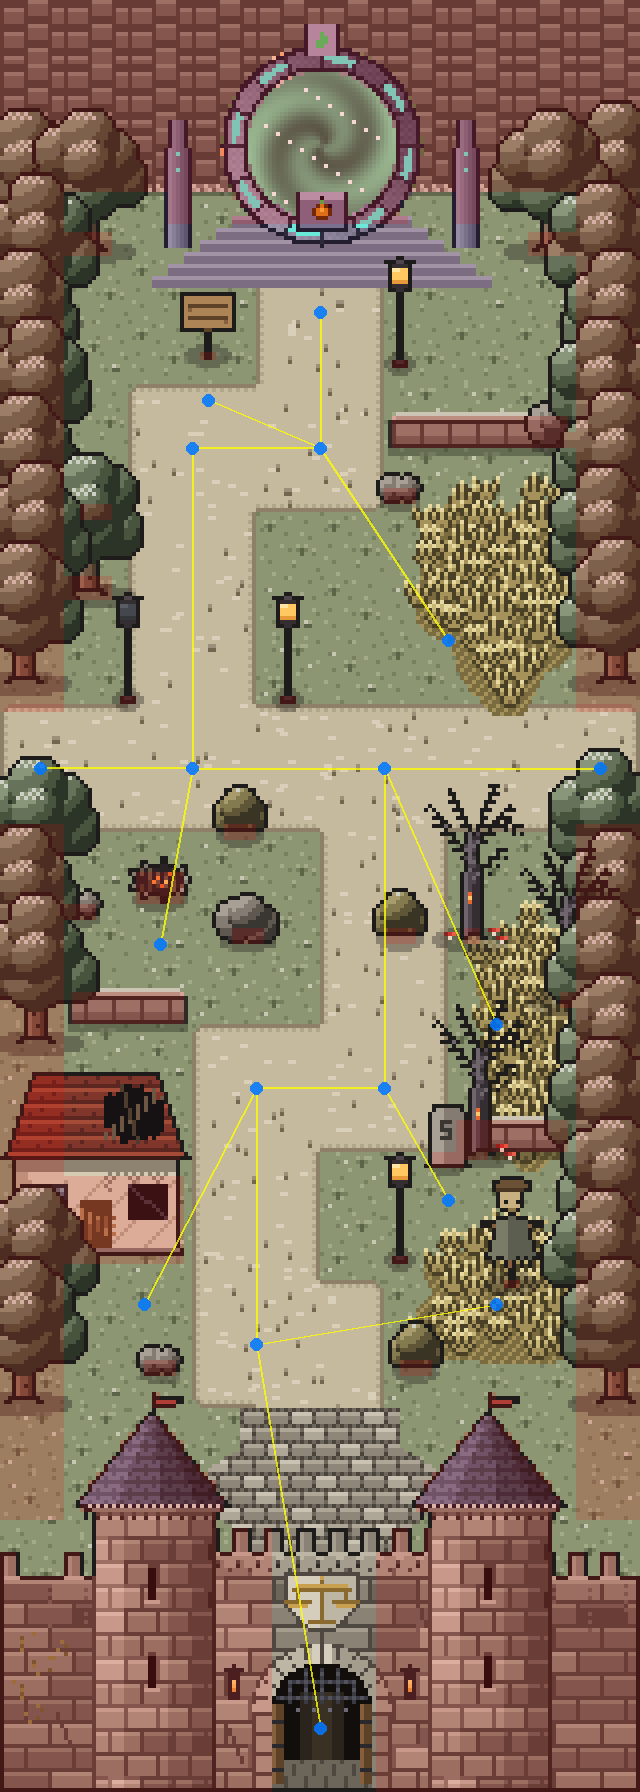
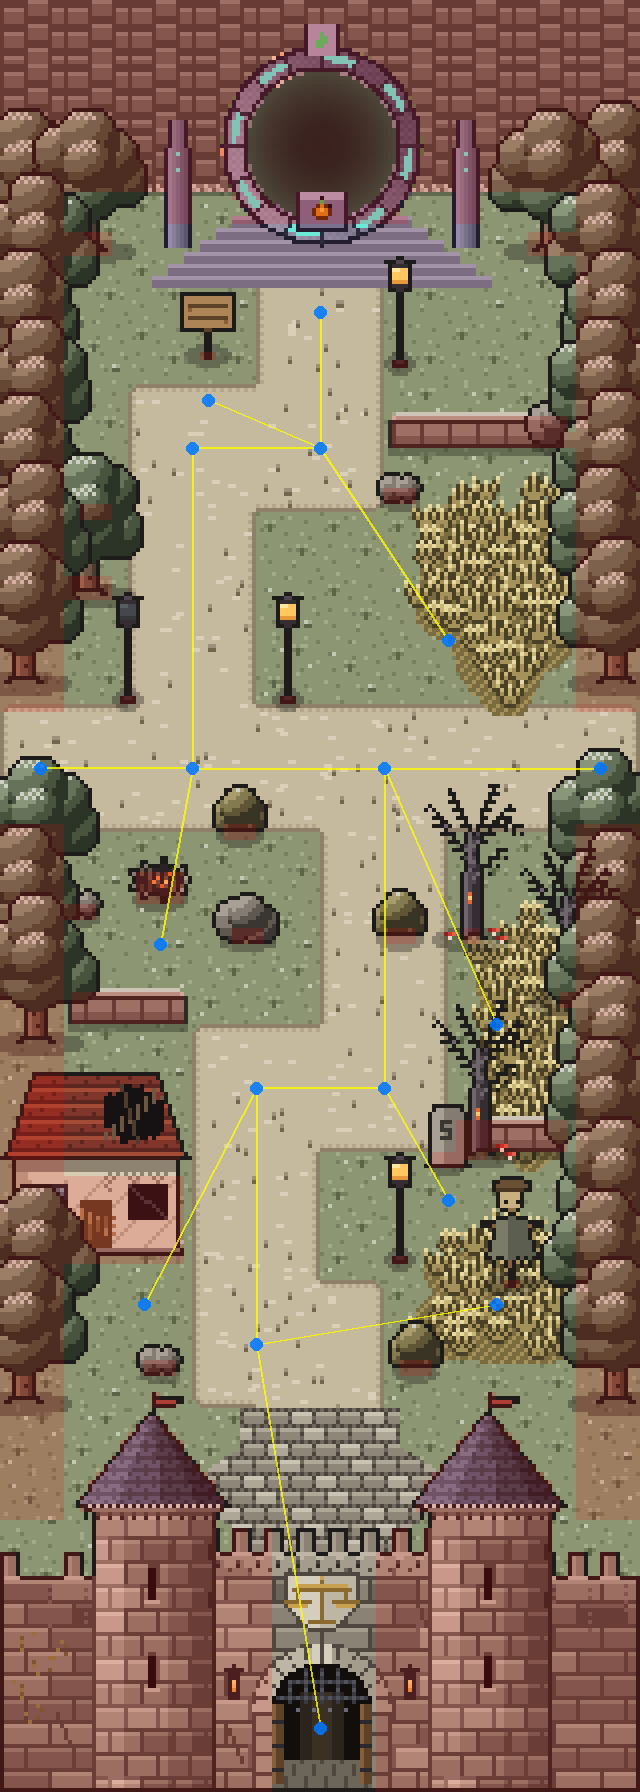
Sad ve dne i v noci (dvě mapy), točící se závoj Brány na pláni, větší oblasti klepnutí u okrajů
Claude-Session: https://claude.ai/code/session_01DEnSwqHYg5ekKXqGuApBa4

Changed region(s): [[0.375, 0.0312, 0.625, 0.125]]

diff --git a/app/src/main/java/cz/uhk/macroflow/pokemon/MakromonMapActivity.kt b/app/src/main/java/cz/uhk/macroflow/pokemon/MakromonMapActivity.kt
@@ -864,10 +864,7 @@ class MakromonMapActivity : AppCompatActivity() {
                     if (Insight.level(StoryFlags.all(this)) >= 3) cz.uhk.macroflow.pokemon.cave.AshPlain.MILESTONE_TEXT_INSIGHT else "")
                 cz.uhk.macroflow.pokemon.cave.AshPlain.CITY_GATE_NODE -> showMapToast(cz.uhk.macroflow.pokemon.cave.AshPlain.CITY_GATE_TEXT)
                 // Ztichlý sad (docs/adr/0089) – jen v noci
-                cz.uhk.macroflow.pokemon.cave.QuietOrchard.PLAIN_NODE ->
-                    if (cz.uhk.macroflow.pokemon.cave.QuietOrchard.isOpen(java.util.Calendar.getInstance().get(java.util.Calendar.HOUR_OF_DAY)))
-                        walkInto(BiomeType.QUIET_ORCHARD, cz.uhk.macroflow.pokemon.cave.QuietOrchard.ENTRY_NODE, MapTransition.FADE)
-                    else showMapToast(cz.uhk.macroflow.pokemon.cave.QuietOrchard.CLOSED_TEXT)
+                cz.uhk.macroflow.pokemon.cave.QuietOrchard.PLAIN_NODE -> walkInto(BiomeType.QUIET_ORCHARD, cz.uhk.macroflow.pokemon.cave.QuietOrchard.ENTRY_NODE, MapTransition.FADE)
                 // Ozvěnový kaňon (docs/adr/0090)
                 cz.uhk.macroflow.pokemon.cave.EchoCanyon.PLAIN_NODE -> walkInto(BiomeType.ECHO_CANYON, cz.uhk.macroflow.pokemon.cave.EchoCanyon.ENTRY_NODE, MapTransition.FADE)
                 cz.uhk.macroflow.pokemon.cave.EchoCanyon.BRIDGE_NODE -> showMapToast(cz.uhk.macroflow.pokemon.cave.EchoCanyon.BRIDGE_TEXT)
@@ -1139,7 +1136,8 @@ class MakromonMapActivity : AppCompatActivity() {
             clearDecor()
 
             if (def != null) {
-                mapBackground.setImageResource(def.backgroundRes)
+                val night = def.nightRes != null && cz.uhk.macroflow.pokemon.cave.QuietOrchard.isNight(java.util.Calendar.getInstance().get(java.util.Calendar.HOUR_OF_DAY))
+                mapBackground.setImageResource(if (night) def.nightRes!! else def.backgroundRes)
                 layoutWorld(def.cave)
                 movementEngine.updateBiome(def.graph, startPos, walkGridFor(newBiome))
             }
@@ -1328,10 +1326,11 @@ class MakromonMapActivity : AppCompatActivity() {
                 currentBiome == BiomeType.FOREST -> { placeGatherSpots(); placeForestStory(progress.legendFaced) }
                 currentBiome == BiomeType.HIDDEN_GROVE -> placeGroveDecor()
                 // místa setkání = vysoká tráva v mapě; přes ni padá popel a z ohniště jiskří
-                currentBiome == BiomeType.ASH_PLAIN -> if (worldScale > 0) addGroundDecor(cz.uhk.macroflow.pokemon.cave.AshFxView(this@MakromonMapActivity, worldScale).apply {
+                currentBiome == BiomeType.ASH_PLAIN -> if (worldScale > 0) placeAshGateVeil().also { addGroundDecor(cz.uhk.macroflow.pokemon.cave.AshFxView(this@MakromonMapActivity, worldScale).apply {
                     layoutParams = FrameLayout.LayoutParams(cz.uhk.macroflow.pokemon.cave.AshPlain.MAP.artW * worldScale, cz.uhk.macroflow.pokemon.cave.AshPlain.MAP.artH * worldScale)
-                })
-                currentBiome == BiomeType.QUIET_ORCHARD -> if (worldScale > 0) addGroundDecor(cz.uhk.macroflow.pokemon.cave.OrchardFxView(this@MakromonMapActivity, worldScale).apply {
+                }) }
+                currentBiome == BiomeType.QUIET_ORCHARD -> if (worldScale > 0) addGroundDecor(cz.uhk.macroflow.pokemon.cave.OrchardFxView(this@MakromonMapActivity, worldScale,
+                    cz.uhk.macroflow.pokemon.cave.QuietOrchard.isNight(java.util.Calendar.getInstance().get(java.util.Calendar.HOUR_OF_DAY))).apply {
                     layoutParams = FrameLayout.LayoutParams(cz.uhk.macroflow.pokemon.cave.QuietOrchard.MAP.artW * worldScale, cz.uhk.macroflow.pokemon.cave.QuietOrchard.MAP.artH * worldScale)
                 })
                 currentBiome == BiomeType.ECHO_CANYON -> if (worldScale > 0) addGroundDecor(cz.uhk.macroflow.pokemon.cave.CanyonFxView(this@MakromonMapActivity, worldScale).apply {
@@ -1480,6 +1479,35 @@ class MakromonMapActivity : AppCompatActivity() {
                 socketGlow.alpha = 0.25f + 0.75f * p
                 runeGlow.alpha = 0.45f + 0.35f * A.pulse(t + 700, 3400).toFloat()
                 clouds.forEach { c -> c.view.x = kotlin.math.floor(A.cloudX(t, c.speed, c.start, artW, c.w)).toFloat() * s }
+            }
+            start()
+        }
+    }
+
+    /** Popelavá pláň: otevřený závoj Brány světů se točí stejně jako v průsmyku (docs/adr/0088). */
+    private fun placeAshGateVeil() {
+        val s = worldScale.toFloat()
+        val A = cz.uhk.macroflow.pokemon.cave.SkyPassArt
+        val P = cz.uhk.macroflow.pokemon.cave.AshPlain
+        val frames = (0 until A.FRAMES).map {
+            android.graphics.Bitmap.createBitmap(A.veil(it, true), A.VEIL_SIZE, A.VEIL_SIZE, android.graphics.Bitmap.Config.ARGB_8888)
+        }
+        val veilSize = (A.VEIL_SIZE * s).toInt()
+        val veil = pixelView(A.veil(0, true), A.VEIL_SIZE, A.VEIL_SIZE, veilSize, veilSize).apply {
+            x = (P.GATE_X - A.VEIL_R) * s; y = (P.GATE_Y - A.VEIL_R) * s; elevation = 1.5f
+        }
+        val runeGlow = glowView((60 * s).toInt(), 0xFF7CFF9A.toInt(), 0x66).apply {
+            x = (P.GATE_X - 30) * s; y = (P.GATE_Y - 30) * s; elevation = 1.4f
+        }
+        addDecor(runeGlow); addDecor(veil)
+        val t0 = android.os.SystemClock.uptimeMillis()
+        crystalAnimators += android.animation.ValueAnimator.ofFloat(0f, 1f).apply {
+            duration = 1000; repeatCount = android.animation.ValueAnimator.INFINITE
+            interpolator = android.view.animation.LinearInterpolator()
+            addUpdateListener {
+                val t = android.os.SystemClock.uptimeMillis() - t0
+                veil.setImageDrawable(android.graphics.drawable.BitmapDrawable(resources, frames[((t / 110) % A.FRAMES).toInt()]).apply { isFilterBitmap = false })
+                runeGlow.alpha = 0.4f + 0.35f * A.pulse(t + 700, 3400).toFloat()
             }
             start()
         }

diff --git a/app/src/main/java/cz/uhk/macroflow/pokemon/cave/QuietOrchard.kt b/app/src/main/java/cz/uhk/macroflow/pokemon/cave/QuietOrchard.kt
@@ -1,8 +1,8 @@
 package cz.uhk.macroflow.pokemon.cave
 
 /**
- * Ztichlý sad (Akt II, docs/adr/0089): noční sad vlevo od Popelavé pláně – vchází se do něj zprava branou mezi sloupky. Otevírá se jen
- * v noci (19:00–5:00). Uzly a hrany kopírují tools/mapgen/gen_orchard.py – ZDROJ PRAVDY je v obou místech.
+ * Ztichlý sad (Akt II, docs/adr/0089): noční sad vlevo od Popelavé pláně – vchází se do něj zprava branou mezi sloupky. Ve dne je slunný,
+ * v noci (19:00–5:00) má jinou, měsíční mapu a světlušky. Uzly a hrany kopírují tools/mapgen/gen_orchard.py – ZDROJ PRAVDY je v obou místech.
  */
 object QuietOrchard {
     const val VISITED_KEY = "quiet_orchard_visited"
@@ -12,10 +12,11 @@ object QuietOrchard {
     /** Uzel na Popelavé pláni, odkud se do sadu chodí. */
     const val PLAIN_NODE = "k_sadu"
 
-    const val OPEN_FROM = 19
-    const val OPEN_UNTIL = 5
+    const val NIGHT_FROM = 19
+    const val NIGHT_UNTIL = 5
 
-    fun isOpen(hour: Int): Boolean = hour >= OPEN_FROM || hour < OPEN_UNTIL
+    /** V noci (19:00–5:00) má sad noční mapu a světlušky; přes den je otevřený a slunný. */
+    fun isNight(hour: Int): Boolean = hour >= NIGHT_FROM || hour < NIGHT_UNTIL
 
     val MAP = CaveMap(
         artW = 160, artH = 320,
@@ -37,7 +38,7 @@ object QuietOrchard {
         parentBiome = "ASH_PLAIN",
         isCave = false,
         tapAreas = mapOf(
-            ENTRY_NODE to Triple(150, 80, 14),
+            ENTRY_NODE to Triple(136, 80, 20),
             "jezirko_sad" to Triple(34, 210, 22),
             "ule" to Triple(126, 202, 18),
             WELL_NODE to Triple(96, 216, 10),
@@ -49,8 +50,6 @@ object QuietOrchard {
 
     val ACTION_NODES = setOf(ENTRY_NODE, WELL_NODE, HUT_NODE)
 
-    const val CLOSED_TEXT = "🌙 Za zídkou je sad, ale vrátka jsou za dne zavřená a cesta tone v mlze.\n" +
-        "Ztichlý sad se otevírá jen v noci (19:00–5:00)."
     const val WELL_TEXT = "🪣 Studna je hluboká a voda v ní stojí bez jediné vlnky. Když se nakloníš, odraz se pohne o chvilku později než ty."
     const val HUT_TEXT = "🏚 Zahradníkova chalupa. Na stole leží seznam stromů a u každého je škrtnuté jméno.\n" +
         "Lucerna svítí, ale nikdo tu není. Košík jablek je ještě teplý."

diff --git a/app/src/main/java/cz/uhk/macroflow/pokemon/cave/OrchardFxView.kt b/app/src/main/java/cz/uhk/macroflow/pokemon/cave/OrchardFxView.kt
@@ -9,10 +9,11 @@ import kotlin.math.cos
 import kotlin.math.sin
 
 /**
- * Živý Ztichlý sad (docs/adr/0089): světlušky pomalu krouží a blikají, nad jezírkem jich je víc.
+ * Živý Ztichlý sad (docs/adr/0089): v noci světlušky pomalu krouží a blikají (u jezírka jich je víc),
+ * ve dne místo nich poletují bílí a žlutí motýlci.
  * Velikost = celý svět mapy, [scale] = násobek art pixelu; kreslí se po celých art pixelech.
  */
-class OrchardFxView(context: Context, private val scale: Int) : View(context) {
+class OrchardFxView(context: Context, private val scale: Int, private val night: Boolean) : View(context) {
     private val s = scale.toFloat()
     private val paint = Paint()
     private val t0 = SystemClock.uptimeMillis()
@@ -28,6 +29,18 @@ class OrchardFxView(context: Context, private val scale: Int) : View(context) {
 
     override fun onDraw(canvas: Canvas) {
         val t = (SystemClock.uptimeMillis() - t0) / 1000f
+        if (!night) {
+            for ((i, f) in flies.withIndex()) {
+                if (i % 2 == 1) continue
+                val x = f.cx + cos(t * f.speed * 0.6f + f.phase) * f.r * 2
+                val y = f.cy + sin(t * f.speed + f.phase) * f.r
+                val flap = ((t * 8 + i) % 2f) < 1f
+                paint.color = if (i % 4 == 0) 0xFFF8F4E8.toInt() else 0xFFF4D860.toInt()
+                canvas.drawRect((x.toInt() - 1) * s, y.toInt() * s, x.toInt() * s, (y.toInt() + if (flap) 1 else 0) * s + s * 0.5f, paint)
+                canvas.drawRect((x.toInt() + 1) * s, y.toInt() * s, (x.toInt() + 2) * s, (y.toInt() + if (flap) 1 else 0) * s + s * 0.5f, paint)
+            }
+            postInvalidateOnAnimation(); return
+        }
         for (f in flies) {
             val x = f.cx + cos(t * f.speed + f.phase) * f.r
             val y = f.cy + sin(t * f.speed * 1.3f + f.phase) * f.r * 0.6f

diff --git a/app/src/main/java/cz/uhk/macroflow/pokemon/BiomeRegistry.kt b/app/src/main/java/cz/uhk/macroflow/pokemon/BiomeRegistry.kt
@@ -107,7 +107,9 @@ object BiomeRegistry {
         /** Zobrazit ukazatel denních kroků (cíl = zámek dalšího biomu). */
         val stepGoalFor: BiomeType? = null,
         /** Jeskyně: mapa větší než obrazovka, kamera jede za postavou. null = mapa přes celou obrazovku. */
-        val cave: CaveMap? = null
+        val cave: CaveMap? = null,
+        /** Noční podoba mapy (stejné rozložení, jiné světlo); null = stejná ve dne i v noci. */
+        @DrawableRes val nightRes: Int? = null
     )
 
     val DEFINITIONS: Map<BiomeType, BiomeDefinition> by lazy {
@@ -133,7 +135,7 @@ object BiomeRegistry {
             BiomeDefinition(BiomeType.ASH_PLAIN, R.drawable.ash_plain, graphOf(cz.uhk.macroflow.pokemon.cave.AshPlain.MAP), questId = null,
                 cave = cz.uhk.macroflow.pokemon.cave.AshPlain.MAP),
             BiomeDefinition(BiomeType.QUIET_ORCHARD, R.drawable.quiet_orchard, graphOf(cz.uhk.macroflow.pokemon.cave.QuietOrchard.MAP), questId = null,
-                cave = cz.uhk.macroflow.pokemon.cave.QuietOrchard.MAP),
+                cave = cz.uhk.macroflow.pokemon.cave.QuietOrchard.MAP, nightRes = R.drawable.quiet_orchard_night),
             BiomeDefinition(BiomeType.ECHO_CANYON, R.drawable.echo_canyon, graphOf(cz.uhk.macroflow.pokemon.cave.EchoCanyon.MAP), questId = null,
                 cave = cz.uhk.macroflow.pokemon.cave.EchoCanyon.MAP)
         ).associateBy { it.type }

diff --git a/app/src/main/java/cz/uhk/macroflow/pokemon/cave/AshPlain.kt b/app/src/main/java/cz/uhk/macroflow/pokemon/cave/AshPlain.kt
@@ -12,6 +12,9 @@ object AshPlain {
     const val SIGN_NODE = "cedule"
     const val MILESTONE_NODE = "meznik"
     const val CITY_GATE_NODE = "brana_mesta"
+    /** Střed prstence Brány světů na mapě pláně (art px) – sem se kreslí točící se závoj. */
+    const val GATE_X = 80
+    const val GATE_Y = 36
 
     val MAP = CaveMap(
         artW = 160, artH = 448,
@@ -37,8 +40,8 @@ object AshPlain {
         isCave = false,
         tapAreas = mapOf(
             ENTRY_NODE to Triple(80, 36, 26),
-            QuietOrchard.PLAIN_NODE to Triple(8, 192, 12),
-            EchoCanyon.PLAIN_NODE to Triple(152, 192, 12),
+            QuietOrchard.PLAIN_NODE to Triple(14, 192, 18),
+            EchoCanyon.PLAIN_NODE to Triple(146, 192, 18),
             CITY_GATE_NODE to Triple(80, 422, 16),
             SIGN_NODE to Triple(52, 80, 8),
             MILESTONE_NODE to Triple(112, 284, 8),

diff --git a/app/src/test/java/cz/uhk/macroflow/pokemon/cave/QuietOrchardTest.kt b/app/src/test/java/cz/uhk/macroflow/pokemon/cave/QuietOrchardTest.kt
@@ -8,9 +8,9 @@ import org.junit.Test
 class QuietOrchardTest {
     private val sad = QuietOrchard.MAP
 
-    @Test fun otevrenoJenVNoci() {
-        assertTrue(QuietOrchard.isOpen(19)); assertTrue(QuietOrchard.isOpen(23)); assertTrue(QuietOrchard.isOpen(0)); assertTrue(QuietOrchard.isOpen(4))
-        assertFalse(QuietOrchard.isOpen(5)); assertFalse(QuietOrchard.isOpen(12)); assertFalse(QuietOrchard.isOpen(18))
+    @Test fun nocJeOd19Do5() {
+        assertTrue(QuietOrchard.isNight(19)); assertTrue(QuietOrchard.isNight(23)); assertTrue(QuietOrchard.isNight(0)); assertTrue(QuietOrchard.isNight(4))
+        assertFalse(QuietOrchard.isNight(5)); assertFalse(QuietOrchard.isNight(12)); assertFalse(QuietOrchard.isNight(18))
     }
 
     @Test fun celySadJeDosazitelnyAVedeZpetNaPlan() {

diff --git a/app/src/main/java/cz/uhk/macroflow/pokemon/cave/EchoCanyon.kt b/app/src/main/java/cz/uhk/macroflow/pokemon/cave/EchoCanyon.kt
@@ -35,7 +35,7 @@ object EchoCanyon {
         parentBiome = "ASH_PLAIN",
         isCave = false,
         tapAreas = mapOf(
-            ENTRY_NODE to Triple(6, 56, 12),
+            ENTRY_NODE to Triple(20, 58, 20),
             "hnizdo" to Triple(54, 78, 12),
             "jeskynka" to Triple(104, 166, 12),
             "rimsa" to Triple(38, 156, 14),

diff --git a/tools/mapgen/gen_orchard.py b/tools/mapgen/gen_orchard.py
@@ -1,9 +1,9 @@
 """
 Použití:  python tools/mapgen/gen_orchard.py   (vyžaduje Pillow + numpy)
-Výstup:   app/src/main/res/drawable-nodpi/quiet_orchard.png, app/src/main/assets/walk/quiet_orchard.txt,
+Výstup:   app/src/main/res/drawable-nodpi/quiet_orchard.png (den) a quiet_orchard_night.png (noc), app/src/main/assets/walk/quiet_orchard.txt,
           tools/mapgen/quiet_orchard_debug.png, tools/mapgen/orchard/parts_objects.png
 
-Ztichlý sad (Akt II, docs/adr/0089) – otevírá se jen v noci. Stejné skládání jako Popelavá pláň:
+Ztichlý sad (Akt II, docs/adr/0089) – ve dne slunný, v noci měsíční (dvě mapy, stejné rozložení). Stejné skládání jako Popelavá pláň:
   1. pozadí z dlaždic (ashplain/tiles.py se zelenou paletou sadu),
   2. objekty (orchard/sad_objects.py + popelavé stromy z ashplain/objects.py na okraji),
   3. složení podle mřížky 10 × 20, pak NOC: celé přebarvení do měsíčního světla a nakonec
@@ -121,12 +121,14 @@ for (spr, cx, by, foot, shade) in sorted(placed, key=lambda p: p[2]):
         fw, fh = foot
         block[max(0, by - fh):by, max(0, int(cx - fw // 2)):min(AW, int(cx + (fw + 1) // 2))] = True
 
-# ── 3) NOC: přebarvení do měsíčního světla, pak zdroje světla ──
+# ── 3) DEN se uloží tak, jak je; NOC: přebarvení do měsíčního světla, pak zdroje světla ──
 day = img.copy()
+Image.fromarray(day[:, :, :3]).save(os.path.join(RES, "quiet_orchard.png"))
 EMISSIVE = {tuple(int(v) for v in col[:3]) for col in S.GOLD + [c(0xFFD27A), c(0xFFF2B0)]}
 rgb = img[:, :, :3].astype(np.float64)
 lum = rgb @ np.array([0.3, 0.55, 0.15])
-night = rgb * np.array([0.40, 0.50, 0.80]) + np.array([8, 12, 30]) + (lum[..., None] > 150) * np.array([2, 4, 8]) - (lum[..., None] > 170) * np.array([14, 14, 10])
+grey = rgb * 0.55 + lum[..., None] * 0.45                                 # nejdřív ubrat barvu, ať kámen nemodrá
+night = grey * np.array([0.44, 0.52, 0.70]) + np.array([6, 10, 22]) - (lum[..., None] > 170) * np.array([18, 18, 14])
 img[:, :, :3] = np.clip(night, 0, 255).astype(np.uint8)
 lights = []
 for y in range(AH):
@@ -160,8 +162,7 @@ block[:46, :] = True
 block[46:, :T] = True; block[46:, -T:] = True
 block[64:96, -T:] = False                                     # vstup zprava mezi sloupky
 walk = ~block
-os.makedirs(RES, exist_ok=True)
-Image.fromarray(img[:, :, :3]).save(os.path.join(RES, "quiet_orchard.png"))
+Image.fromarray(img[:, :, :3]).save(os.path.join(RES, "quiet_orchard_night.png"))
 gw, gh = AW // CELL, AH // CELL
 rows = ["".join("." if walk[gy * CELL:(gy + 1) * CELL, gx * CELL:(gx + 1) * CELL].mean() >= 0.5 else "#" for gx in range(gw)) for gy in range(gh)]
 for n, (x, y) in NODES.items():

diff --git a/tools/mapgen/ashplain/objects.py b/tools/mapgen/ashplain/objects.py
@@ -309,13 +309,10 @@ def world_gate():
                 s.a[y - Y0, x - X0] = (r, g, b, 255)
             elif d < 18.6:
                 # otevřený závoj: zelená spirála přes tmavé nitro
-                ang = math.atan2(y - CY, x - CX)
-                sw = (math.sin(2 * ang + d * 0.45) + 1) / 2
-                k = 0.25 + sw * 0.35 + (d / 18.6) ** 2 * 0.3
-                base = np.array([30, 52, 46]); glow = np.array([150, 240, 190])
+                # tmavé nitro – točící se závoj se kreslí ve hře přes něj (SkyPassArt.veil)
+                k = (d / 18.6) ** 2 * 0.35
+                base = np.array([22, 40, 36]); glow = np.array([90, 170, 130])
                 col = base + (glow - base) * k
-                if (x * 7 + y * 13) % 47 == 0 and d < 17:
-                    col = np.array([245, 255, 248])
                 s.a[y - Y0, x - X0] = (*col.astype(np.uint8), 255)
     # Srdce Hvozdu v lůžku (SkyPassArt.HEART_IN_SOCKET)
     heart = ["..g..", ".oao.", "oalao", "oaaao", ".ooo."]

diff --git a/docs/adr/0089-ztichly-sad.md b/docs/adr/0089-ztichly-sad.md
@@ -1,10 +1,11 @@
-# 0089 – Ztichlý sad: noční lokace aktu II
+# 0089 – Ztichlý sad: lokace aktu II se dnem a nocí
 
 Stav: přijato (2026-10-22), větev `MULTI`, issue #29
 
 - Biom `QUIET_ORCHARD` (`cave/QuietOrchard.kt`, mapa 160 × 320 z `tools/mapgen/gen_orchard.py`).
   Vchod z Popelavé pláně odbočkou vlevo (`k_sadu` u ohniště) – v sadu hráč vejde **zprava** branou mezi
-  kamennými sloupky. **Otevřeno jen 19:00–5:00**, jinak hláška.
+  kamennými sloupky. **Otevřeno pořád**: ve dne slunná mapa `quiet_orchard.png` a motýlci, v noci (19:00–5:00)
+  měsíční `quiet_orchard_night.png` (stejné rozložení, `BiomeDefinition.nightRes`) a světlušky.
 - Grafika stejným postupem jako pláň (ADR 0088): dlaždice z `ashplain/tiles.py` se zelenou paletou,
   objekty v `orchard/sad_objects.py` (ovocné stromy, Stará jabloň se zlatými jablky, kamenná zídka, sloupky brány
   s křídly, studna, slaměné úly, hrázděná chalupa, koše, žebřík). Budovy a kamenné prvky se kreslí po prvcích

diff --git a/docs/adr/0088-popelava-plan.md b/docs/adr/0088-popelava-plan.md
@@ -20,3 +20,6 @@ Stav: přijato (2026-10-22), větev `MULTI`, issue #26
 - Cedule, mezník (s Vhledem ≥ 3 prozradí „S-0“) a zavřená vrata Ozvěny (otevře #27).
 - Příznak `ash_plain_visited` je ve `StoryProgress.STORY_KEYS`.
 - Mimo rozsah: fáze 1 kapitoly V (Sestup s Hunfreyem) přijde s questovou linkou v #28, zóna aktu II v deníku později.
+- Závoj v Bráně světů se na pláni točí stejně jako v průsmyku (`SkyPassArt.veil`, střed `AshPlain.GATE_X/Y`);
+  v obrázku mapy je uvnitř prstence jen tmavé nitro. Oblasti klepnutí u okrajů mapy jsou větší, aby šly
+  trefit vedle ovládacích prvků (ukazatel energie vlevo, tlačítka vpravo).
